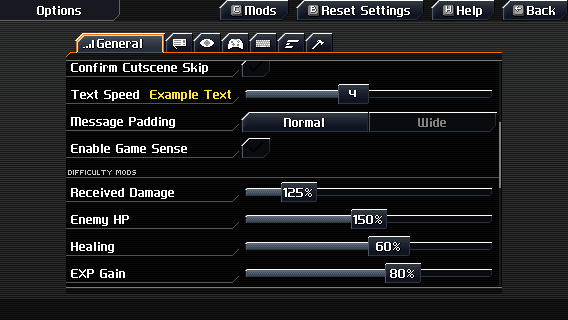
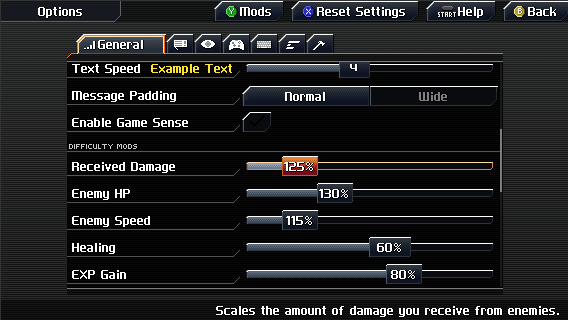
1.0.7
adjusted arena scoring based on HP modifier, scaleable break meter, added speed setting

diff --git a/src/_main.js b/src/_main.js
@@ -2,24 +2,6 @@
 
 window.difficultymods = {};
 
-difficultymods.SCALE_ENEMY_HP = {
-  NORM: 1,
-  HIGH1: 1.15,
-  HIGH2: 1.30,
-  HIGH3: 1.50,
-  HIGH4: 1.65,
-  HIGH5: 1.80,
-  HIGH6: 2.00,
-};
-difficultymods.XP_GAIN = {
-  LOW6: 0.4,
-  LOW5: 0.5,
-  LOW4: 0.6,
-  LOW3: 0.7,
-  LOW2: 0.8,
-  LOW1: 0.9,
-  NORM: 1,
-};
 difficultymods.ENEMY_DAMAGE = {
   NORM: 1,
   HIGH1: 1.25,
@@ -29,12 +11,39 @@ difficultymods.ENEMY_DAMAGE = {
   HIGH5: 2.25,
   HIGH6: 2.5,  
 };
+difficultymods.SCALE_ENEMY_HP = {
+  NORM: 1,
+  HIGH1: 1.15,
+  HIGH2: 1.30,
+  HIGH3: 1.50,
+  HIGH4: 1.65,
+  HIGH5: 1.80,
+  HIGH6: 2.00,
+};
+difficultymods.ATTACK_FREQ = {
+  NORM: 1,
+  HIGH1: 1.15,
+  HIGH2: 1.30,
+  HIGH3: 1.50,
+  HIGH4: 1.65,
+  HIGH5: 1.80,
+  HIGH6: 2.00,
+};
 difficultymods.HEALING = {
   LOW5: 0.01,
   LOW4: 0.2,
   LOW3: 0.4,
   LOW2: 0.6,
   LOW1: 0.8,
+  NORM: 1,
+};
+difficultymods.XP_GAIN = {
+  LOW6: 0.4,
+  LOW5: 0.5,
+  LOW4: 0.6,
+  LOW3: 0.7,
+  LOW2: 0.8,
+  LOW1: 0.9,
   NORM: 1,
 };
 
@@ -57,6 +66,16 @@ for (let [key, value] of Object.entries(sc.OPTIONS_DEFINITION)) {
 				type: 'OBJECT_SLIDER',
 				data: difficultymods.SCALE_ENEMY_HP,
 				init: difficultymods.SCALE_ENEMY_HP.NORM,
+				cat: sc.OPTION_CATEGORY.GENERAL,
+				fill: true,
+				showPercentage: true,
+				hasDivider: false,
+				header: "difficulty-mods"
+            };
+            options["difficultymods-attack-freq"] = {
+				type: 'OBJECT_SLIDER',
+				data: difficultymods.ATTACK_FREQ,
+				init: difficultymods.ATTACK_FREQ.NORM,
 				cat: sc.OPTION_CATEGORY.GENERAL,
 				fill: true,
 				showPercentage: true,

diff --git a/src/enemy-hp.js b/src/enemy-hp.js
@@ -61,3 +61,38 @@ sc.BurnStatus.inject({
 		return value;
 	}
 });
+
+//scale down damage-done and effective-damage in arena scores based on enemy HP,
+//so you don't get a million extra points just from having the HP turned up
+sc.Arena.inject({
+	addScore(a, b){
+		if(a == "DAMAGE_DONE" || a == "DAMAGE_DONE_EFFECTIVE"){
+			b = Math.floor(b / sc.options.get("difficultymods-enemy-hp"));
+		}
+		return this.parent(a, b);
+	}
+});
+
+//increase the target time proportionally to enemy HP too, so you don't get locked out of half the gold medals if you turn HP up.
+//this doesn't account for bosses with a lot of invulnerable time so those will technically be slightly easier to get medals on, but oh well
+sc.Arena.inject({
+	addBonusObjectives(){
+		this.parent();
+		var timebonus=this.runtime.bonusObjectives.find((element)=>element.type=="TIME");
+		if(timebonus != null)
+			timebonus.data._time = Math.floor(timebonus.data._time * sc.options.get("difficultymods-enemy-hp"));
+
+	}
+});
+
+//scale break meter based on HP (by getting the old and new break meters before/after each hit, and scaling the difference)
+sc.ENEMY_TRACKER.HIT.inject({
+	onConditionEval(b, a, d, c){
+		var old = this.current;
+		var result = this.parent(b, a, d, c);
+		if(b.difficultyModsScaledHP)
+			this.current = old + (this.current - old) / b.difficultyModsScaledHP;
+		return result; //this returns true even if the scaled meter isn't quite full, as long as it *would've* been full from the unscaled hit.
+		//i could fix this but i think it helps with object-triggered weaknesses like waveballs on the ghosts
+	}
+});

diff --git a/src/attack-freq.js b/src/attack-freq.js
@@ -1,0 +1,7 @@
+sc.OptionModel.inject({
+	get(a, b){
+		var result = this.parent(a, b);
+		if(a=="assist-attack-frequency") result *= sc.options.get("difficultymods-attack-freq");
+		return result;
+	}
+});

diff --git a/src/_prestart.js b/src/_prestart.js
@@ -3,3 +3,4 @@ import './enemy-hp.js';
 import './xp-gain.js';
 import './enemy-damage.js';
 import './healing.js';
+import './attack-freq.js';

diff --git a/README.md b/README.md
@@ -2,13 +2,16 @@
 
 ![](https://github.com/Azure-Lazuline/difficulty-mods/blob/main/screenshots/screen1.png?raw=true)
 
-A set of adjustable difficulty options for CrossCode. Turn up enemy damage or HP, or turn down healing or EXP gain. You can do this at any time from the options menu, so mess with it depending on how you're feeling at the moment to get it just right!
+A set of adjustable difficulty options for CrossCode. You can change them at any time from the options menu, so mess with it depending on how you're feeling at the moment to get it just right!
 
 - **Received Damage** - already available as a New Game Plus option, but this means you don't have to commit for a whole run, and it's more granular.
-- **Enemy HP** - feel like things die too quick when you're fully-equipped? Try this!
+- **Enemy HP** - feel like things die too quick when you're fully-equipped? Try this! It affects their break meter too.
+- **Enemy Speed** - make enemies attack more often, and speed up their recovery from stun and break status.
 - **Healing** - affects all in-combat healing, including sandwiches, regen, and even Arena between-round heals.
 - **EXP Gain** - useful for 100% runs so you don't get too overpowered from the sidequests.
 
 ### Installation
 
-To use, install [ccloader](https://github.com/CCDirectLink/CCLoader) and then put [the .ccmod file](https://github.com/Azure-Lazuline/difficulty-mods/releases) in your mods folder.
+To use, install [ccloader](https://github.com/CCDirectLink/CCLoader), and go to the "Mods" menu ingame (the button at the *top* of the Options menu, not the tab on the right) and it should be listed there to select and install.
+
+You can also install manually by placing [the .ccmod file](https://github.com/Azure-Lazuline/difficulty-mods/releases) in your ccloader mods folder.
